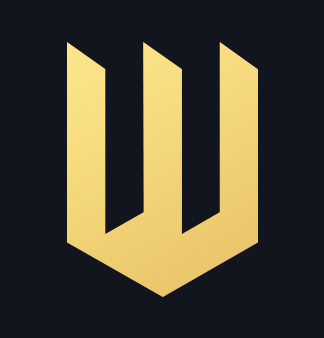
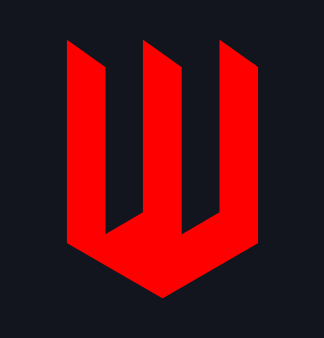
A

Changed region(s): [[0.1852, 0.1183, 0.8025, 0.8876]]

diff --git a/docs/logo/aplicaciones.md b/docs/logo/aplicaciones.md
@@ -38,10 +38,10 @@ Este logo debe usarse cuando se necesite mayor fortaleza de imagen sobre todo cu
 <ul>
 <li>Imagotipo Blanco</li>
 <li>Imagotipo Negro</li>
-<li>Imagotipo Dorado</li>
+<li>Imagotipo Rojo</li>
 <li>Isotipo Blanco</li>
 <li>Isotipo Negro</li>
-<li>Isotipo Dorado</li>
+<li>Isotipo Rojo</li>
 </ul>
 <br>
 <br>

diff --git a/docs/logo/variaciones.md b/docs/logo/variaciones.md
@@ -34,10 +34,10 @@ También el logo tiene distintas variaciones para cuando la pieza en la que tien
 <ul>
 <li>Imagotipo Blanco</li>
 <li>Imagotipo Negro</li>
-<li>Imagotipo Dorado</li>
+<li>Imagotipo Rojo</li>
 <li>Isotipo Blanco</li>
 <li>Isotipo Negro</li>
-<li>Isotipo Dorado</li>
+<li>Isotipo Rojo</li>
 </ul>
 <br>
 

diff --git a/docs/colores.md b/docs/colores.md
@@ -117,7 +117,7 @@ Estos colores aplican para presentaciones, infografías u ocasionalmente cuando 
 
 <br>
 
-# Gradiente Dorado en css
+# Gradiente Rojo en css
 <br>
 
 ```css
